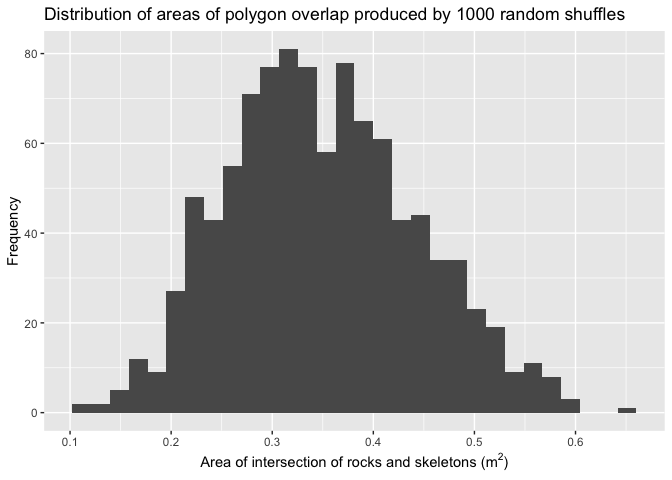
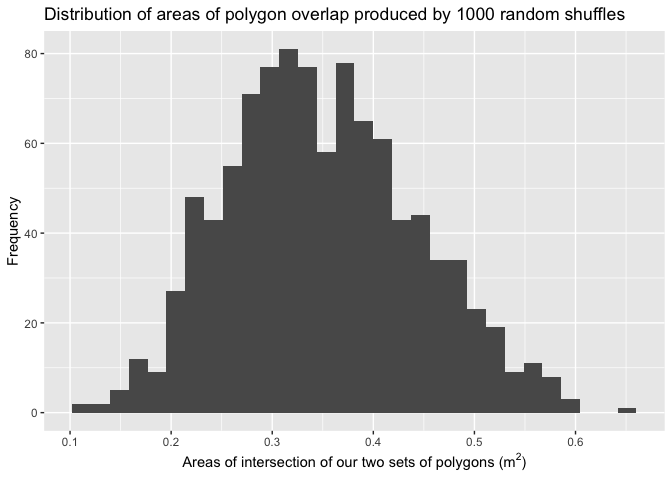
add travis

Changed region(s): [[0.25, 0.9375, 0.7812, 1.0]]

diff --git a/README.md b/README.md
@@ -5,6 +5,8 @@
 
 <!-- badges: start -->
 
+[![Travis build
+status](https://travis-ci.org/benmarwick/polygonoverlap.svg?branch=master)](https://travis-ci.org/benmarwick/polygonoverlap)
 <!-- badges: end -->
 
 The goal of polygonoverlap is to compute the probability that an
@@ -107,7 +109,7 @@ library(ggplot2)
 ggplot(areas_of_overlap_from_random_shuffle,
        aes(area)) +
   geom_histogram() + 
-    labs(x = expression("Area of intersection of rocks and skeletons (m"^2*")"),
+    labs(x = expression("Areas of intersection of our two sets of polygons (m"^2*")"),
          y = "Frequency") +
   ggtitle(paste0("Distribution of areas of polygon overlap produced by ", n, " random shuffles"))
 #> `stat_bin()` using `bins = 30`. Pick better value with `binwidth`.
@@ -146,7 +148,7 @@ this:
 ggplot(areas_of_overlap_from_random_shuffle,
        aes(area)) +
   geom_histogram() + 
-    labs(x = expression("Area of intersection of rocks and skeletons (m"^2*")"),
+    labs(x = expression("Areas of intersection of our two sets of polygons (m"^2*")"),
          y = "Frequency") +
   ggtitle(paste0("Distribution of areas of polygon overlap produced by ", 
                  n, 
@@ -167,7 +169,7 @@ ggplot(areas_of_overlap_from_random_shuffle,
 
 This method was developed for this publication:
 
-> Lowe, Kelsey M., Lynley A. Wallis, Colin Pardoe, Ben Marwick5, Chris
+> Lowe, Kelsey M., Lynley A. Wallis, Colin Pardoe, Ben Marwick, Chris
 > Clarkson, Tiina Manne, Mike A. Smith and Richard Fullagar 2014.
 > Ground-penetrating radar and burial practices in western Arnhem Land,
 > Australia. *Archaeology in Oceania*
